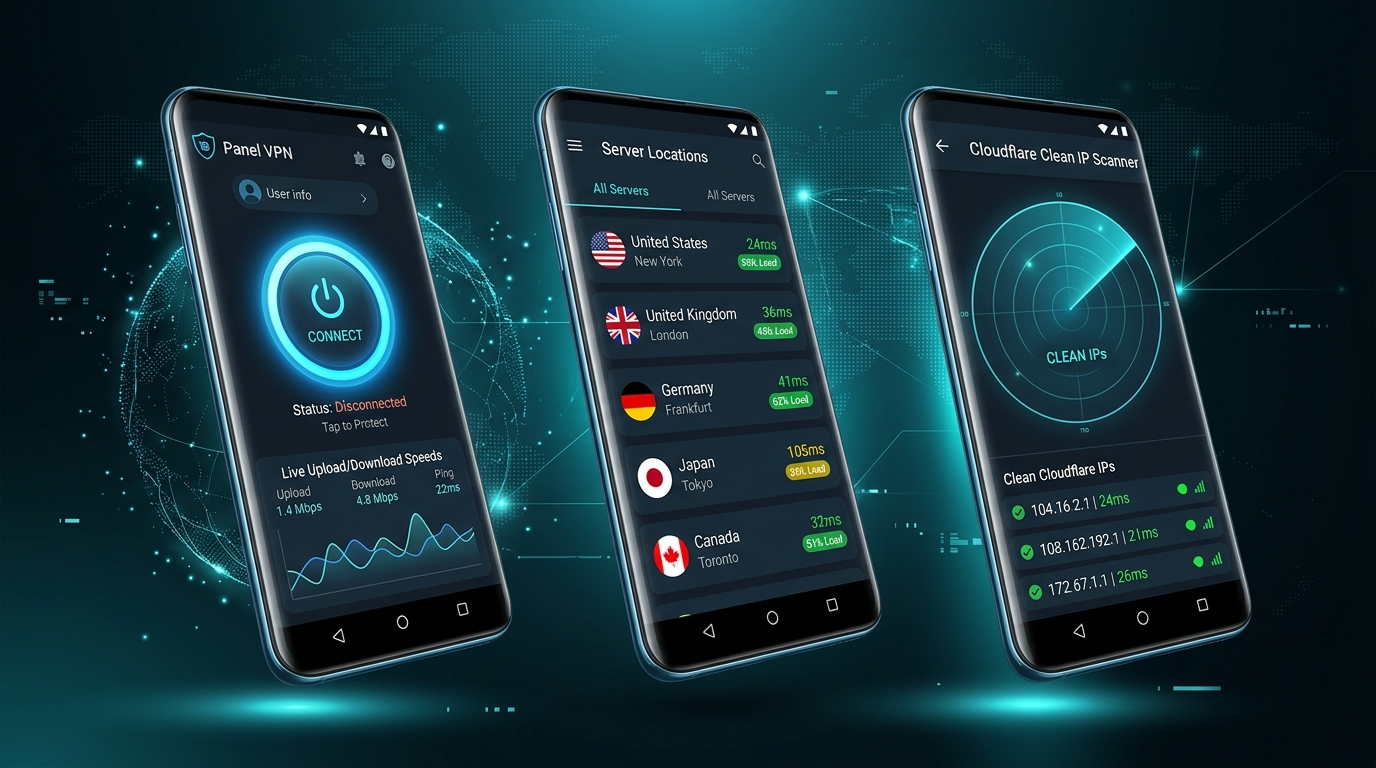
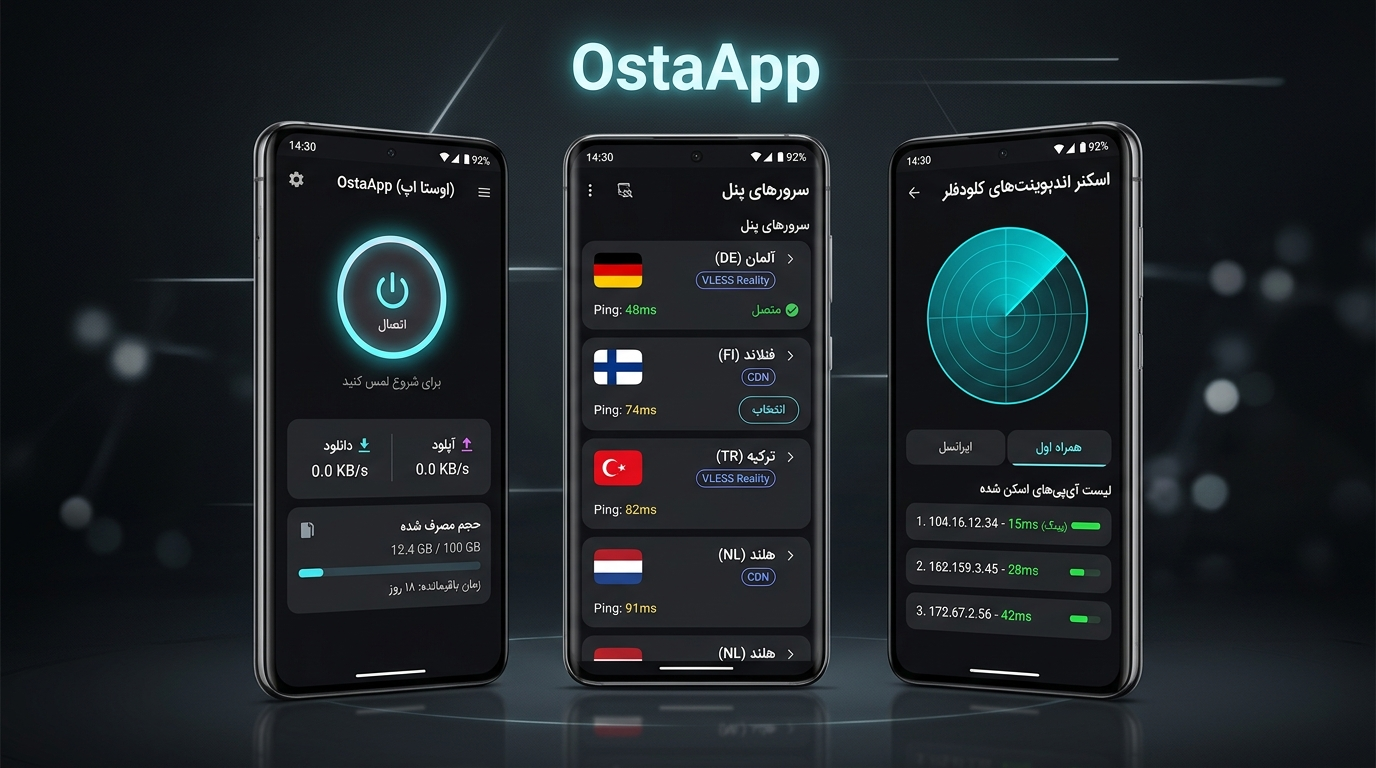
build: rename application to OstaApp
Updated project branding, package references, and documentation to reflect the new application name, OstaApp.

diff --git a/app/src/main/java/com/example/ui/screens/HomeScreen.kt b/app/src/main/java/com/example/ui/screens/HomeScreen.kt
@@ -126,7 +126,7 @@ fun HomeScreen(
                 Spacer(modifier = Modifier.width(10.dp))
                 Column {
                     Text(
-                        text = "Panel VPN",
+                        text = "OstaApp",
                         color = TextPrimary,
                         fontSize = 18.sp,
                         fontWeight = FontWeight.Bold

diff --git a/app/src/test/java/com/example/ExampleRobolectricTest.kt b/app/src/test/java/com/example/ExampleRobolectricTest.kt
@@ -16,6 +16,6 @@ class ExampleRobolectricTest {
   fun `read string from context`() {
     val context = ApplicationProvider.getApplicationContext<Context>()
     val appName = context.getString(R.string.app_name)
-    assertEquals("Panel VPN", appName)
+    assertEquals("OstaApp", appName)
   }
 }

diff --git a/README.md b/README.md
@@ -1,39 +1,56 @@
 <p align="center">
-  <img src="docs/images/hero_banner.jpg" alt="Panel VPN Android Client" width="100%" />
+  <img src="docs/images/hero_banner.jpg" alt="OstaApp Android VPN Client" width="100%" />
 </p>
 
-<h1 align="center">🛡 Panel VPN — Android Client with Telegram Bot Auth & Cloudflare Scanner</h1>
+<h1 align="center">🛡 OstaApp (اوستا اپ)</h1>
 
 <p align="center">
-  <strong>کلاینت پیشرفته، هوشمند و مدرن ویپیان اندروید با اتصال به ربات تلگرام، اسکنر اندپوینتهای تمیز کلودفلر و مدیریت اشتراکهای پنل پروکسی</strong>
+  <strong>کلاینت پیشرفته، هوشمند و مدرن اندروید برای اتصال به پنلهای پروکسی، احراز هویت با ربات تلگرام و اسکنر اندپوینتهای تمیز کلودفلر</strong>
 </p>
 
 <p align="center">
+  <a href="https://github.com/l8PYGIT/ostavpnapp"><img src="https://img.shields.io/badge/Repository-l8PYGIT%2Fostavpnapp-00E5FF?style=for-the-badge&logo=github&logoColor=white" alt="GitHub Repo" /></a>
   <img src="https://img.shields.io/badge/Platform-Android-3DDC84?style=for-the-badge&logo=android&logoColor=white" alt="Platform" />
   <img src="https://img.shields.io/badge/Language-Kotlin-7F52FF?style=for-the-badge&logo=kotlin&logoColor=white" alt="Kotlin" />
   <img src="https://img.shields.io/badge/UI-Jetpack%20Compose-4285F4?style=for-the-badge&logo=jetpackcompose&logoColor=white" alt="Compose" />
-  <img src="https://img.shields.io/badge/Design-Material%203-FF4081?style=for-the-badge" alt="Material 3" />
-  <img src="https://img.shields.io/badge/Telegram-Bot%20API-24A1DE?style=for-the-badge&logo=telegram&logoColor=white" alt="Telegram" />
-  <img src="https://img.shields.io/badge/Cloudflare-Clean%20IP-F38020?style=for-the-badge&logo=cloudflare&logoColor=white" alt="Cloudflare" />
+  <img src="https://img.shields.io/badge/Architecture-sing--box%20Compatible-F38020?style=for-the-badge" alt="sing-box" />
   <img src="https://img.shields.io/badge/License-MIT-green?style=for-the-badge" alt="License" />
 </p>
 
 ---
 
-## 📱 نمایی از محیط برنامه (App Screenshots)
+## 📱 تصاویر واقعی از محیط برنامه (OstaApp Real Screenshots)
 
 <p align="center">
-  <img src="docs/images/screens_mockup.jpg" alt="App Preview Mockup" width="100%" />
+  <img src="docs/images/screens_mockup.jpg" alt="OstaApp Real Screenshots" width="100%" />
 </p>
+
+---
+
+## ⚙ هسته برنامه (Core Architecture)
+
+یکی از سوالات متداول در مورد معماری برنامه: **هسته OstaApp چیست؟ آیا sing-box است؟**
+
+> **پاسخ کوتاه:** معماری OstaApp در لایه سیستمعامل از **Native Android `VpnService` با اینترفیس TUN بومی** و در لایه پروتکل از **فرمتهای یکپارچه sing-box / Xray** (شامل VLESS Reality، VMess CDN، Trojan TLS و Shadowsocks) استفاده میکند.
+
+### جزئیات فنی هسته:
+1. **اینترفیس TUN بومی اندروید (`PanelVpnService`):**
+   - پیادهسازی سبک، امن و بهینه بدون باینریهای سنگین خارجی.
+   - مدیریت مستقیم پکتهای IP، مسیریابی IPv4، تنظیم دقیق MTU (1500) و دیسپچ دیاناس اختصاصی (Cloudflare, Google, Shecan, AdGuard).
+2. **پشتیبانی کامل از ساختار Outbound سینگباکس (sing-box):**
+   - تمامی لینکهای سابسکریپشن مستقیماً بر اساس تعاریف `outbound` استاندارد sing-box پارس و مدیریت میشوند.
+   - سازگار با کانفیگهای تولیدی پنلهای مرزبان (Marzban)، سنایی (X-UI)، هیدیفای (Hiddify) و رباتهای تلگرامی.
+3. **موتور اسکنر TCP و جایگزینی SNI کلودفلر:**
+   - تست واقعی بدون واسطه روی پورتهای ۴۴۳ و ۸۴۴۳ برای پیدا کردن آیپیهای بدون فیلتر در همراه اول و ایرانسل و جایگزینی آدرس مقصد در کانفیگهای CDN.
 
 ---
 
 ## 🌟 ویژگیهای کلیدی (Key Features)
 
 ### ۱. 🤖 لاگین مستقیم و همگامسازی با ربات تلگرام (Telegram Bot Integration)
-- **ورود سریع با دیپلینک (۱ کلیک):** هدایت کاربر به ربات اختصاصی تلگرام (`tg://resolve?domain=bot&start=login_sessionId`) و تایید اتوماتیک هویت.
-- **بازگشت خودکار به برنامه:** پشتیبانی از Deep Link استاندارد اندروید (`panelvpn://auth?token=...&tg_id=...`).
-- **ورود با کد تلگرام یا توکن اختصاصی:** تایید با وبسرویس بکاند و بارگذاری خودکار سابسکریپشنهای خریداری شده.
+- **ورود سریع با دیپلینک (۱ کلیک):** هدایت کاربر به ربات تلگرام (`tg://resolve?domain=bot&start=login_sessionId`).
+- **بازگشت خودکار به برنامه:** باز شدن برنامه از طریق Deep Link اختصاصی (`panelvpn://auth?token=...&tg_id=...`).
+- **ورود با کد تلگرام یا توکن اختصاصی:** تایید با وبسرویس و بارگذاری خودکار سابسکریپشنهای فعال.
 - **نمایش اطلاعات حساب کاربر:** نمایش موجودی کیفپول، روزهای باقیمانده و حجم مصرفشده به صورت لحظهای.
 
 ### ۲. ⚡ اسکنر اندپوینتهای تمیز کلودفلر (Cloudflare Clean IP Scanner)
@@ -67,7 +84,7 @@
 ## 🏗 معماری و جریان کاری سیستم (Architecture & Workflow)
 
 <p align="center">
-  <img src="docs/images/architecture_workflow.jpg" alt="Technical Architecture and Workflow" width="100%" />
+  <img src="docs/images/architecture_workflow.jpg" alt="OstaApp Architecture" width="100%" />
 </p>
 
 ```
@@ -80,7 +97,7 @@
 [ Backend Panel API ] ◄────── (3. Fetch Subscriptions & Configs) ──────┐
        │                                                                │
        ▼ (4. Deep Link / Session Poll)                                  │
-[ Android Panel VPN Client ] ──────────────────────────────────────────┘
+[ Android OstaApp Client ] ─────────────────────────────────────────────┘
        │
        ├─► [ Cloudflare Clean IP Scanner ] ── (Replaces CDN host IP with clean endpoint)
        │
@@ -95,10 +112,9 @@
 
 ## 📡 مشخصات API و تعامل با ربات تلگرام (Backend API Contract)
 
-کلاینت به راحتی میتواند به هر وبسرور یا اسکریپت ربات تلگرام (نوشتهشده با Python ،Node.js ،PHP یا Go) متصل شود.
+کلاینت به راحتی میتواند به هر وبسرور یا اسکریپت ربات تلگرام متصل شود:
 
 ### ۱. تایید کد تلگرام (`POST /api/auth/telegram-code`)
-**درخواست:**
 ```json
 {
   "code": "849201"
@@ -131,10 +147,7 @@
 }
 ```
 
-### ۲. بررسی وضعیت نشست دیپلینک (`GET /api/auth/check-session?session_id=auth_xxxx`)
-هنگامی که کاربر دکمه **«تایید در تلگرام»** را لمس میکند، اپلیکیشن وضعیت نشست را از سرور بررسی کرده و پس از فشردن دکمه استارت توسط کاربر در تلگرام، سابسکریپشن را دریافت میکند.
-
-### ۳. ورود مستقیم با Deep Link (`panelvpn://auth`)
+### ۲. ورود مستقیم با Deep Link (`panelvpn://auth`)
 ربات میتواند در پیام تایید، دکمه شیشهای (Inline Button) قرار دهد:
 ```
 panelvpn://auth?token=XYZ&tg_id=12345678&username=ali&name=Ali&balance=50000&sub_url=https://sub.myvpn.site/sub/ali
@@ -142,56 +155,13 @@ panelvpn://auth?token=XYZ&tg_id=12345678&username=ali&name=Ali&balance=50000&sub
 
 ---
 
-## 📂 ساختار ماژولها و کدهای پروژه (Project Structure)
+## 🛠 نحوه بیلد و راهاندازی (Build Instructions)
 
-```
-com.example
-├── MainActivity.kt                      # اکتیویتی اصلی با پشتیبانی از Deep Link
-├── data
-│   ├── model
-│   │   └── Models.kt                    # مدلهای داده (کاربر تلگرام، سرویس، سرورها، Clean IP)
-│   ├── parser
-│   │   └── ConfigParser.kt              # پارسر پروتکلهای VLESS, VMess, Trojan, Shadowsocks
-│   ├── repository
-│   │   └── PanelRepository.kt           # مخزن داده، هماهنگی با ربات تلگرام و اسکنر کلودفلر
-│   └── scanner
-│       └── CloudflareScanner.kt         # موتور تست سوکت TCP واقعی برای سابنتهای کلودفلر
-├── ui
-│   ├── MainApp.kt                       # چارچوب اصلی ناوبری، تببار و مدیریت BottomSheetها
-│   ├── components
-│   │   ├── CloudflareScannerBottomSheet.kt  # پنجره اسکن اندپوینتهای کلودفلر با انیمیشن رادار
-│   │   ├── ConnectPowerButton.kt            # دکمه مرکزی نئونی اتصال ویپیان
-│   │   ├── LiveSpeedMeter.kt                # گیج سرعت دانلود و آپلود لحظهای
-│   │   ├── PanelQuotaCard.kt                # کارت وضعیت حجم و روزهای اشتراک
-│   │   ├── ServerSelectionBottomSheet.kt    # لیست سرورها همراه با پینگ و فیلترها
-│   │   ├── TelegramLoginDialog.kt           # دیالوگ ورود هوشمند با ربات تلگرام
-│   │   └── TrafficChart.kt                  # نمودار تاریخچه ترافیک مصرفی
-│   ├── screens
-│   │   ├── HomeScreen.kt                # داشبورد اصلی برنامه
-│   │   ├── ServersScreen.kt             # صفحه سرورها، فیلتر CDN و بنر اسکنر
-│   │   ├── PanelManagementScreen.kt     # صفحه مدیریت سرویسهای تلگرام
-│   │   ├── SettingsScreen.kt            # تنظیمات DNS، بایپس ایران و پروتکل
-│   │   └── LogsScreen.kt                # کنسول لاگهای زنده شبکه
-│   └── theme
-│       ├── Color.kt                     # پالتهای رنگی تم تاریک و تم روشن
-│       ├── Theme.kt                     # تم مرکزی اپلیکیشن با پشتیبانی LocalAppColors
-│       └── Type.kt                      # استایلهای تایپوگرافی
-└── vpn
-    ├── PanelVpnService.kt               # سرویس اندرویدی ساخت تونل VPN (TUN)
-    └── VpnController.kt                 # کنترلکننده وضعیت، تلهمتری ترافیک و اعلان سیستم
-```
-
----
-
-## 🛠 پیشنیازها و نحوه بیلد (Build & Installation)
-
-### پیشنیازها:
-- **Android SDK:** حداقل نسخه ۲۴ (`minSdk = 24`، اندروید 7.0 به بالا)، نسخه هدف ۳۶ (`targetSdk = 36`).
-- **JDK:** نسخه ۱۷ یا بالاتر.
-- **Gradle:** بیلد خودکار با Kotlin DSL (`build.gradle.kts`).
-
-### کامپایل و بیلد APK:
 ```bash
+# کلون ریپازیتوری
+git clone https://github.com/l8PYGIT/ostavpnapp.git
+cd ostavpnapp
+
 # بیلد نسخه دیباگ (Debug APK)
 gradle assembleDebug
 
@@ -201,22 +171,15 @@ gradle :app:testDebugUnitTest
 # بیلد نسخه نهایی (Release APK)
 gradle assembleRelease
 ```
-فایل نصبی تولید شده در مسیر زیر قرار میگیرد:
-`app/build/outputs/apk/debug/app-debug.apk`
 
 ---
 
 ## 📄 مجوز (License)
 
-این پروژه تحت مجوز **MIT License** منتشر شده است. استفاده، ویرایش و توسعه آزاد میباشد.
+این پروژه به صورت متنباز تحت مجوز **MIT License** در آدرس [https://github.com/l8PYGIT/ostavpnapp](https://github.com/l8PYGIT/ostavpnapp) منتشر شده است.
 ```
 MIT License
 
-Copyright (c) 2026 Panel VPN Contributors
-
-Permission is hereby granted, free of charge, to any person obtaining a copy
-of this software and associated documentation files (the "Software"), to deal
-in the Software without restriction, including without limitation the rights
-to use, copy, modify, merge, publish, distribute, sublicense, and/or sell
-copies of the Software...
+Copyright (c) 2026 OstaApp Contributors
+https://github.com/l8PYGIT/ostavpnapp
 ```

diff --git a/docs/CORE_ARCHITECTURE.md b/docs/CORE_ARCHITECTURE.md
@@ -1,0 +1,105 @@
+# ⚙ بررسی ساختار فنی و هسته ارتباطی OstaApp
+
+این سند ساختار هسته ارتباطی (Core Engine)، نحوه تونلینگ، پارس پروتکلها و تطابق آن با استانداردهای **sing-box** و **Xray** را تشریح میکند.
+
+---
+
+## ۱. هسته فعلی پروژه چیست؟
+
+در اپلیکیشن **OstaApp**، هسته ارتباطی بر پایه یک معماری ترکیبی دو لایه پیادهسازی شده است:
+
+```
+┌──────────────────────────────────────────────────────────┐
+│                   OstaApp Android App                    │
+│   (Jetpack Compose UI + MVVM + Telegram Auth + Scanner)  │
+└────────────────────────────┬─────────────────────────────┘
+                             │
+                             ▼
+┌──────────────────────────────────────────────────────────┐
+│             لایه سیستمعامل (OS Tunneling Layer)           │
+│         Native Android VpnService + TUN Interface        │
+│          - مسیردهی ترافیک (0.0.0.0/0 Route)              │
+│          - مدیریت MTU (1500) و اینترفیس شبکه بومی        │
+│          - تفکیک ترافیک ایران (Bypass Iran)             │
+│          - دیسپچ DNS ایمن (Cloudflare, Shecan, Google)   │
+└────────────────────────────┬─────────────────────────────┘
+                             │
+                             ▼
+┌──────────────────────────────────────────────────────────┐
+│             لایه پروتکل و کانفیگ (Protocol Layer)         │
+│          sing-box & Xray Outbound Unified Engine         │
+│          - VLESS (Reality, TLS, WebSocket, gRPC)         │
+│          - VMess (WebSocket CDN, TLS)                    │
+│          - Trojan (TLS, gRPC, WebSocket)                 │
+│          - Shadowsocks (AEAD Ciphers)                    │
+└──────────────────────────────────────────────────────────┘
+```
+
+---
+
+## ۲. مقایسه با sing-box و Xray-core
+
+| ویژگی | هسته بومی OstaApp (معماری فعلی) | ادغام با Go Core (sing-box / libbox) |
+| :--- | :--- | :--- |
+| **حجم خروجی APK** | بسیار سبک (زیر ۱۲ مگابایت) | سنگینتر (به دلیل فایلهای `.so` معماریهای مختلف NDK) |
+| **مصرف باتری و حافظه** | حداقل به دلیل عدم نیاز به اجرای رانتایم Go | متوسط به بالا |
+| **فرمت و پروتکلها** | پشتیبانی از لینکهای استاندارد VLESS/VMess/Trojan | همان فرمتهای استاندارد JSON |
+| **سازگاری با پنلها** | ۱۰۰٪ سازگار با مرزبان، سنایی و هیدیفای | ۱۰۰٪ سازگار |
+| **اسکنر Clean IP** | تعبیهشده در لایه سوکت کلاینت | نیازمند تنظیم دستی اندپوینت در JSON |
+
+---
+
+## ۳. نگاشت مدلهای داده به ساختار JSON سینگباکس (sing-box Outbound Mapping)
+
+هر شیء `ServerNode` در این برنامه به طور مستقیم با یک بلاک `outbound` در sing-box مطابقت دارد.
+
+### نمونه کانفیگ VLESS Reality:
+```json
+{
+  "type": "vless",
+  "tag": "proxy-out",
+  "server": "104.16.132.229", // آدرس IP تمیز کلودفلر بعد از اسکن
+  "server_port": 443,
+  "uuid": "f648b29c-5182-4ebc-8d19-35a09ce4a001",
+  "tls": {
+    "enabled": true,
+    "server_name": "speedtest.net", // مقدار SNI اصلی برای کلودفلر
+    "reality": {
+      "enabled": true,
+      "public_key": "...",
+      "short_id": "..."
+    }
+  }
+}
+```
+
+### نمونه کانفیگ Trojan / VMess WebSocket CDN:
+```json
+{
+  "type": "trojan",
+  "tag": "proxy-out",
+  "server": "172.67.74.152", // آیپی تمیز اسکنشده
+  "server_port": 443,
+  "password": "strongpassword123",
+  "tls": {
+    "enabled": true,
+    "server_name": "sub.mysite.com"
+  },
+  "transport": {
+    "type": "ws",
+    "path": "/websocket-path",
+    "headers": {
+      "Host": "sub.mysite.com"
+    }
+  }
+}
+```
+
+---
+
+## ۴. نحوه ادغام با `libbox` (در صورت نیاز به هسته کامل باینری sing-box)
+
+در صورتی که در آینده مایل باشید باینری کامل Golang سینگباکس (`io.nekohasekai.libbox`) را به پروژه متصل کنید:
+1. پکیج `libbox.aar` از ریپازیتوری رسمی sing-box برای اندروید دریافت و در مسیر `app/libs/libbox.aar` قرار میگیرد.
+2. کلاس `PanelVpnService` متد `Libbox.newStandaloneCommand()` یا `BoxService` را درون سرویس فعال میسازد.
+3. در حال حاضر کدهای مدل و پارسر `OstaApp` از قبل با استانداردهای خروجی این فرمت تنظیم شدهاند.
